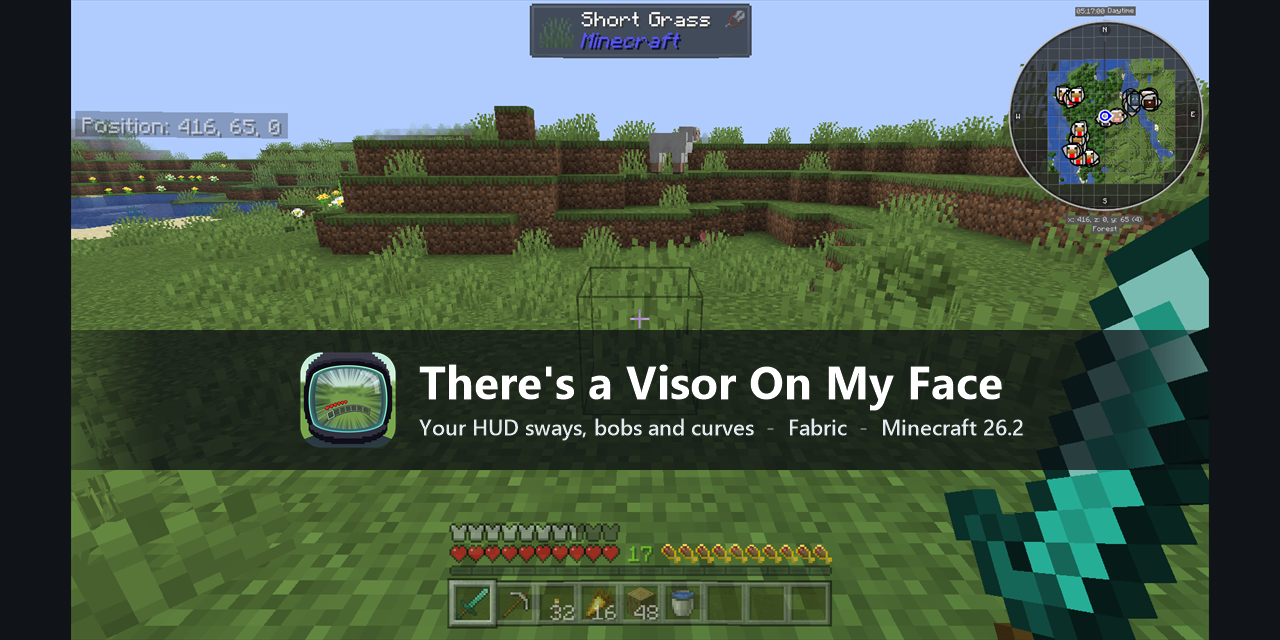
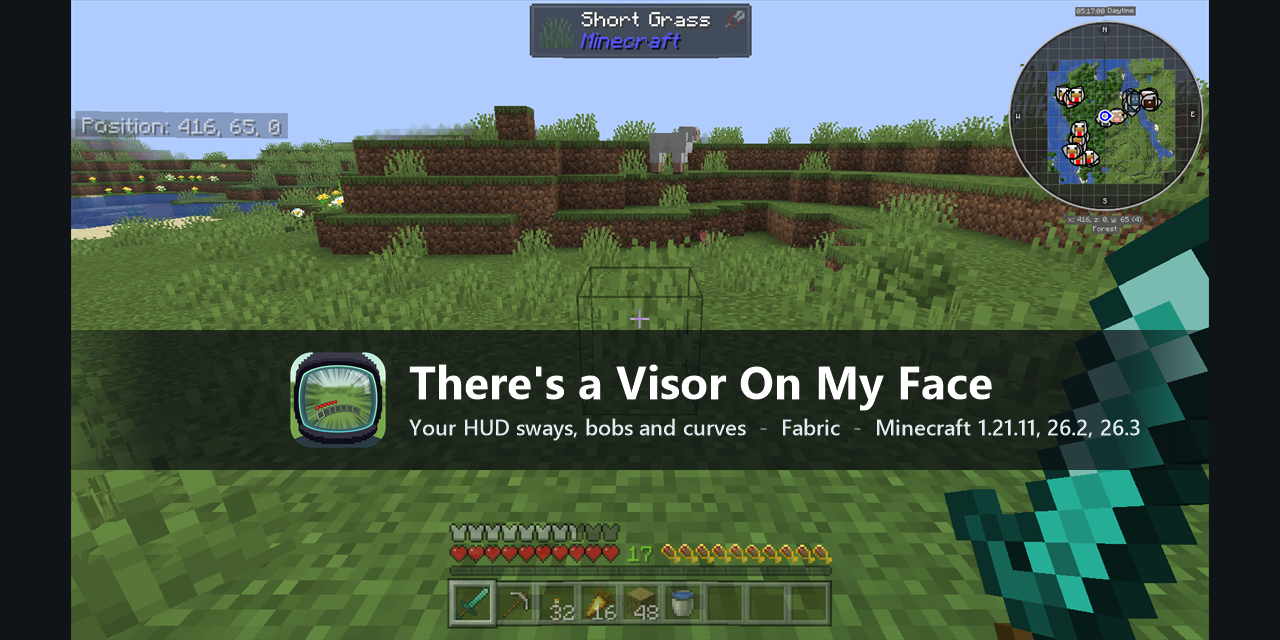
Docs: three game versions, what is tested, F3 and overlays, settings-file safety, test tooling, port logs

Changed region(s): [[0.2188, 0.5312, 0.9062, 0.7188]]

diff --git a/PORTING.md b/PORTING.md
@@ -15,10 +15,14 @@ it should turn a port into a checklist.
    is reported there as `Could not hook ...`, and once more in chat after five seconds in a world.
 5. Look at the screenshots in `build/run/clientGameTest/screenshots` and at `sway_trace.csv`
    (see "Checking a port").
-6. Repeat with other mods' jars in `build/run/clientGameTest/mods`.
+6. Repeat with other mods: `rigs.ps1 -GameVersion <version> -Download` fetches small test sets into
+   `rigs/`, and `run-rig-tests.ps1` runs the visual test once per set.
+7. `run-config-test.ps1` for the settings file, then [BETA-CHECKLIST.md](BETA-CHECKLIST.md) for what
+   still needs a person.
 
 `gradlew clean` deletes `build/`, and with it the test client's `mods` folder, worlds and
-settings. Copy the jars back afterwards.
+settings. That is why the test sets are kept in `rigs/`, outside `build/`; refill the test
+client from there with `rigs.ps1 -Use`.
 
 ## How the mod is put together
 
@@ -51,6 +55,8 @@ Names are Mojang's own (26.x is not obfuscated). If one of these moved, this is 
 | `GuiRenderStateMixin` | `GuiRenderState.addPicturesInPictureState` | `@Inject` HEAD | Notes the sway in force when a 3D model is recorded. |
 | `GuiRenderStateMixin` | `GuiRenderState.addBlitToCurrentLayer(BlitRenderState)` | `@ModifyVariable` | Shifts the quad a model's texture is drawn with. |
 | `PictureInPictureRendererMixin` | `PictureInPictureRenderer.prepare` | `@Inject` HEAD and RETURN | Marks which model the next such quad belongs to. |
+| `GuiRenderStateMixin` | `GuiRenderState.addGuiElement` and `addText` | `@Inject` HEAD | Notes elements and text recorded inside a "keep flat" section. |
+| `HudMixin` | `Hud.extractDebugOverlay(GuiGraphicsExtractor)` | `@WrapMethod` | Makes the F3 debug screen one such section. The game draws it outside `extractRenderState`, so it never sways, but it shares the GUI mesh and would bend. |
 
 Every hook is optional (`"required": false`, `defaultRequire: 0`). A hook that fails switches its
 feature off; it does not stop the game.
@@ -93,6 +99,12 @@ feature off; it does not stop the game.
   rate; do not replace it with "add then decay".
 - **Screens.** Screens share the GUI mesh with the HUD, so the bend fades out while any screen is
   open. Models recorded by screens are recorded with no sway in force and are left alone.
+- **Things that must stay flat are marked, not measured.** A full-screen overlay is several
+  pieces (the spyglass is a scope texture and four black bars). Deciding piece by piece from its
+  size whether to bend it left seams onto the world while the scope was still growing. The whole
+  overlay, and the F3 screen, are instead recorded inside a "keep flat" section
+  (`HudCurve.beginFlat`); elements are noted by identity, and text by the pose object its glyphs
+  share, since text is only split into glyphs later.
 - **Checking hooks.** Plain `@Inject` and `@ModifyVariable` hooks can be confirmed by looking for
   the handler call in the patched class (`HookStatus.postApply`). MixinExtras hooks
   (`@WrapMethod`, `@WrapOperation`) are woven in after that point, so they set a flag the first
@@ -114,6 +126,57 @@ and with the curve on and off. Look for:
 - `sway_trace.csv`: the offset during a long fall changes smoothly, with no sawtooth.
 
 `make-media.ps1` reshoots the stills and clips for the README once the port is right.
+
+## Port log
+
+The code on `main` is the 26.2 build. Each other game version has its own branch, `mc/<version>`,
+and a fix is carried between them one branch at a time.
+
+### 26.2 to 26.3 (branch `mc/26.3`)
+
+Every hook still took unchanged. Two compile fixes and one test fix:
+
+- `PrimitiveTopology` moved from `com.mojang.blaze3d` to `com.mojang.renderpearl.api.pipeline`
+  (26.3 moved much of the low-level rendering API into a `renderpearl` package).
+- `VertexConsumer` gained `setUv3(float, float)`. `HudCurve.Curved` stores and blends it like the
+  other values.
+- Test only: `GameRenderer.render` lost its parameters, so the frame-capture hook's handler had
+  to drop them too. A handler whose parameters do not match the target fails the mixin outright;
+  in the mod itself that would switch the feature off, in the test mod it stops the client.
+
+Checked with the visual test, mod alone. Not yet checked with other mods on 26.3.
+
+### 26.2 back to 1.21.11 (branch `mc/1.21.11`)
+
+1.21.11 already draws the GUI the way 26.2 does (recorded elements, a GUI mesh, picture-in-picture
+models), so every feature carried over. The work was build setup and names:
+
+- **Build:** 1.21.x is obfuscated. The plugin is `fabric-loom` (the remapping one) instead of
+  `net.fabricmc.fabric-loom`, with `mappings loom.officialMojangMappings()`, and mod
+  dependencies become `modImplementation` and `modCompileOnly`. Java 21 instead of 25, in
+  `build.gradle`, `fabric.mod.json` and both mixin configs.
+- **Renames (26.2 name, then 1.21.11 name):**
+  - `Hud` is `Gui`; `extractRenderState` is `render`; `extractDeferredSubtitles` is
+    `renderDeferredSubtitles`; `GuiGraphicsExtractor` is `GuiGraphics`.
+  - Package `net.minecraft.client.renderer.state.gui` is `net.minecraft.client.gui.render.state`.
+  - `GuiRenderState.addPicturesInPictureState` and `addBlitToCurrentLayer` are
+    `submitPicturesInPictureState` and `submitBlitToCurrentLayer`.
+  - `PictureInPictureRenderer.prepare` has no `FeatureRenderDispatcher` parameter.
+  - `RenderPipeline.getPrimitiveTopology()` and `PrimitiveTopology.QUADS` are
+    `getVertexFormatMode()` and `VertexFormat.Mode.QUADS`.
+  - `GameRenderer.mainCamera()` is `getMainCamera()`; `Minecraft.gui.screen()` is the field
+    `Minecraft.screen`; `LocalPlayer.sendSystemMessage` is `displayClientMessage(text, false)`.
+  - Fabric API: `HudElement.extractRenderState` is `render`; `ClientCommands` is
+    `ClientCommandManager`; `VanillaHudElements.MOB_EFFECTS` is `STATUS_EFFECTS`.
+  - Test only: there is no `GameRenderer.extract`; both capture hooks go on `render`.
+- **Trap:** a class name inside an `@At(target = "Lnet/minecraft/...;")` string uses slashes, so
+  a find-and-replace on the dotted package name misses it. The hook then silently did not take,
+  and the hook report caught it ("Not available on this game version: the curved HUD").
+- **Trap:** after switching branch or moving the project folder, delete
+  `.gradle/configuration-cache` if a build finishes suspiciously fast and produces no new jar.
+
+Checked with the visual test, mod alone, run on the build machine's Java 25. Not yet checked on
+a Java 21 runtime or with other mods on 1.21.11.
 
 ## Releasing
 

diff --git a/README.md b/README.md
@@ -2,7 +2,7 @@
 
 # There's a Visor On My Face
 
-**TVOMF** for short. A client-side Fabric mod for Minecraft 26.2.
+**TVOMF** for short. A client-side Fabric mod for Minecraft 1.21.11, 26.2 and 26.3.
 
 You have been playing Minecraft with your hearts, hotbar and minimap glued flat to the inside of
 your eyeballs. That's weird. This mod puts them where they belong: on a visor, on a helmet, on
@@ -66,15 +66,29 @@ Motion is the point, so stills undersell it, but here is the curve standing stil
 
 ## What it leaves alone
 
-- Full-screen overlays (vignette, pumpkin blur, spyglass, portal, sleep) never move. Your visor is
-  not that dirty.
+- Full-screen overlays (vignette, pumpkin blur, spyglass, portal, powder-snow frost, sleep) never
+  move or bend. Your visor is not that dirty.
+- The F3 debug screen stays flat and straight, so the small print is readable.
 - Menus and inventories stay flat and still, so buttons are where your mouse thinks they are.
 - The crosshair stays the same size, and can be told to stay put entirely.
 
-## Installing
+## Getting it
 
-Needs [Fabric Loader](https://fabricmc.net/use/) and [Fabric API](https://modrinth.com/mod/fabric-api).
-Drop the jar in your `mods` folder. It is client-side only and works on any server.
+Downloads are on the [releases page](https://github.com/irfanadli97/tvomf/releases). Each jar's
+name ends with the game version it is for; take the newest one for yours.
+
+| Minecraft | Status | Java | How far it has been tested |
+|---|---|---|---|
+| 26.2 | Release | 25 | Scripted tests alone and with a 56-mod set; the author's everyday version |
+| 1.21.11 | Beta | 21 or newer | Passed the full [test checklist](BETA-CHECKLIST.md): scripted and played by hand |
+| 26.3 | Alpha | 25 | Scripted tests with the mod alone; not yet played by hand |
+
+Needs [Fabric Loader](https://fabricmc.net/use/) 0.19.5 or newer and
+[Fabric API](https://modrinth.com/mod/fabric-api). Drop the jar in your `mods` folder and remove any
+older TVOMF jar. It is client-side only and works on any server.
+
+Minecraft 1.21.5 and older draw the HUD in a different way. The sway could be ported there, but
+the curve would have to be written again, so those versions are not supported.
 
 ## Recommended alongside
 
@@ -88,7 +102,20 @@ nicer screen:
 - **[BedrockIfy](https://modrinth.com/mod/bedrockify)**: its screen safe area pushes the whole HUD
   in from the edges, and its paper doll rides the visor too.
 
-Both are optional, and both have been run together with TVOMF.
+Both are optional, and both have been played alongside TVOMF, including clicking chat that Raised
+had moved.
+
+## Plays with
+
+Played by hand alongside TVOMF on 1.21.11, as part of its beta testing: Sodium, Lithium,
+FerriteCore, Entity Culling, ImmediatelyFast, Iris (shaders on and off), Mod Menu, Cloth Config,
+Xaero's Minimap, Jade, AppleSkin, JEI, Simple Voice Chat, BedrockIfy, Raised, Scoreboard Overhaul,
+Chat Animation, Smooth GUI, Inventory Profiles Next and Just Zoom. JourneyMap is covered by
+scripted runs there and by everyday play on 26.2.
+
+That is a list of what has been tried, not a promise about everything else. A mod that draws on
+the HUD in the usual way should sway and curve with the rest; if one does not, or something
+breaks, please open an issue.
 
 ## Settings screen
 
@@ -144,6 +171,11 @@ Positive x is right, positive y is down.
 | `sprintBobStrength` | `5.0` | Height of the bob while sprinting, in GUI pixels (0-20) |
 | `elements` | `{}` | Per-element offsets, e.g. `"minecraft:hotbar": {"x": 0, "y": -10, "xPercent": 0, "yPercent": 0}` |
 
+A settings file edited by hand cannot stop the game from starting. A file that cannot be read is
+kept as `tvomf.json.broken` and replaced with the defaults; a value outside its range is pulled
+to the nearest end of it; an offset for an element id that does not exist is ignored. Each of
+these is noted in the log.
+
 ## Known limits
 
 - Moving the chat does not move where it responds to clicks.
@@ -161,23 +193,29 @@ The jar is written to `build/libs`. Moving to another Minecraft version? Start w
 On a game version the mod was not built for, any part that can no longer hook into the game
 switches itself off and says so once in chat, instead of stopping the game from starting.
 
-## Visual test
+## Testing
 
-`run-visual-test.ps1` starts a client, creates a world and writes to `build/run/clientGameTest`:
+[BETA-CHECKLIST.md](BETA-CHECKLIST.md) is what a build has to pass to be called a beta, with the
+record of every run so far. The scripted half of it lives in this repository:
 
-- `screenshots/`: the HUD flat and curved, at rest and with a fixed sway offset.
-- `sway_trace.csv`: the sway offset frame by frame during a long fall; it should change smoothly.
+- `run-visual-test.ps1` starts a client, creates a world and writes screenshots of the HUD flat
+  and curved, at rest and swayed, with the spyglass, the F3 screen and a busy HUD, plus
+  `sway_trace.csv`, the sway frame by frame during a long fall. Output goes to
+  `build/run/clientGameTest`.
+- `rigs.ps1` downloads small sets of other mods for a game version into `rigs/` and switches the
+  test client between them; `run-rig-tests.ps1` runs the visual test once per set.
+- `run-config-test.ps1` runs 27 checks on missing, renamed, cut-off, out-of-range and mistyped
+  settings files.
 
-To include another mod's HUD in the screenshots, copy its jar into `build/run/clientGameTest/mods`
-first.
+Add `-PtestJava=<path to java.exe>` to a Gradle run to test on another Java.
 
 ## Page media
 
 `make-media.ps1 -ModSet solo` (or `full`) shoots the stills and the two five second clips in
 `docs/media` from a scripted run in the test client: 1600x900, the same camera path every time.
 Add `-SettingsFile path\to\tvomf.json` to shoot with your own settings instead of the defaults.
-It needs ffmpeg on the PATH. For `full`, put the other mods' jars in
-`build/run/clientGameTest/mods-full`.
+It needs ffmpeg on the PATH. For `full`, fill the test client's `mods` folder first, for example
+with `rigs.ps1 -Use`.
 
 ## Credits and licence
 

diff --git a/CREDITS.md b/CREDITS.md
@@ -23,7 +23,7 @@ jar (version 0.0.5-1.20.1-forge), which its MIT License permits.
 
 ### What is new here
 
-Everything else was written for this project: the rewrite for Minecraft 26.2 and Fabric, the
+Everything else was written for this project: the rewrite for Fabric on Minecraft 26.2, and the builds for 26.3 and 1.21.11 that followed, the
 frame-rate independent sway and soft limit, vertical sway from jumping and falling, walking bob,
 the curved HUD (sphere and cylinder), the sprint curve and zoom-out, per-element offsets, sway for
 3D models on the HUD, the settings screen, and the visual test rig.
